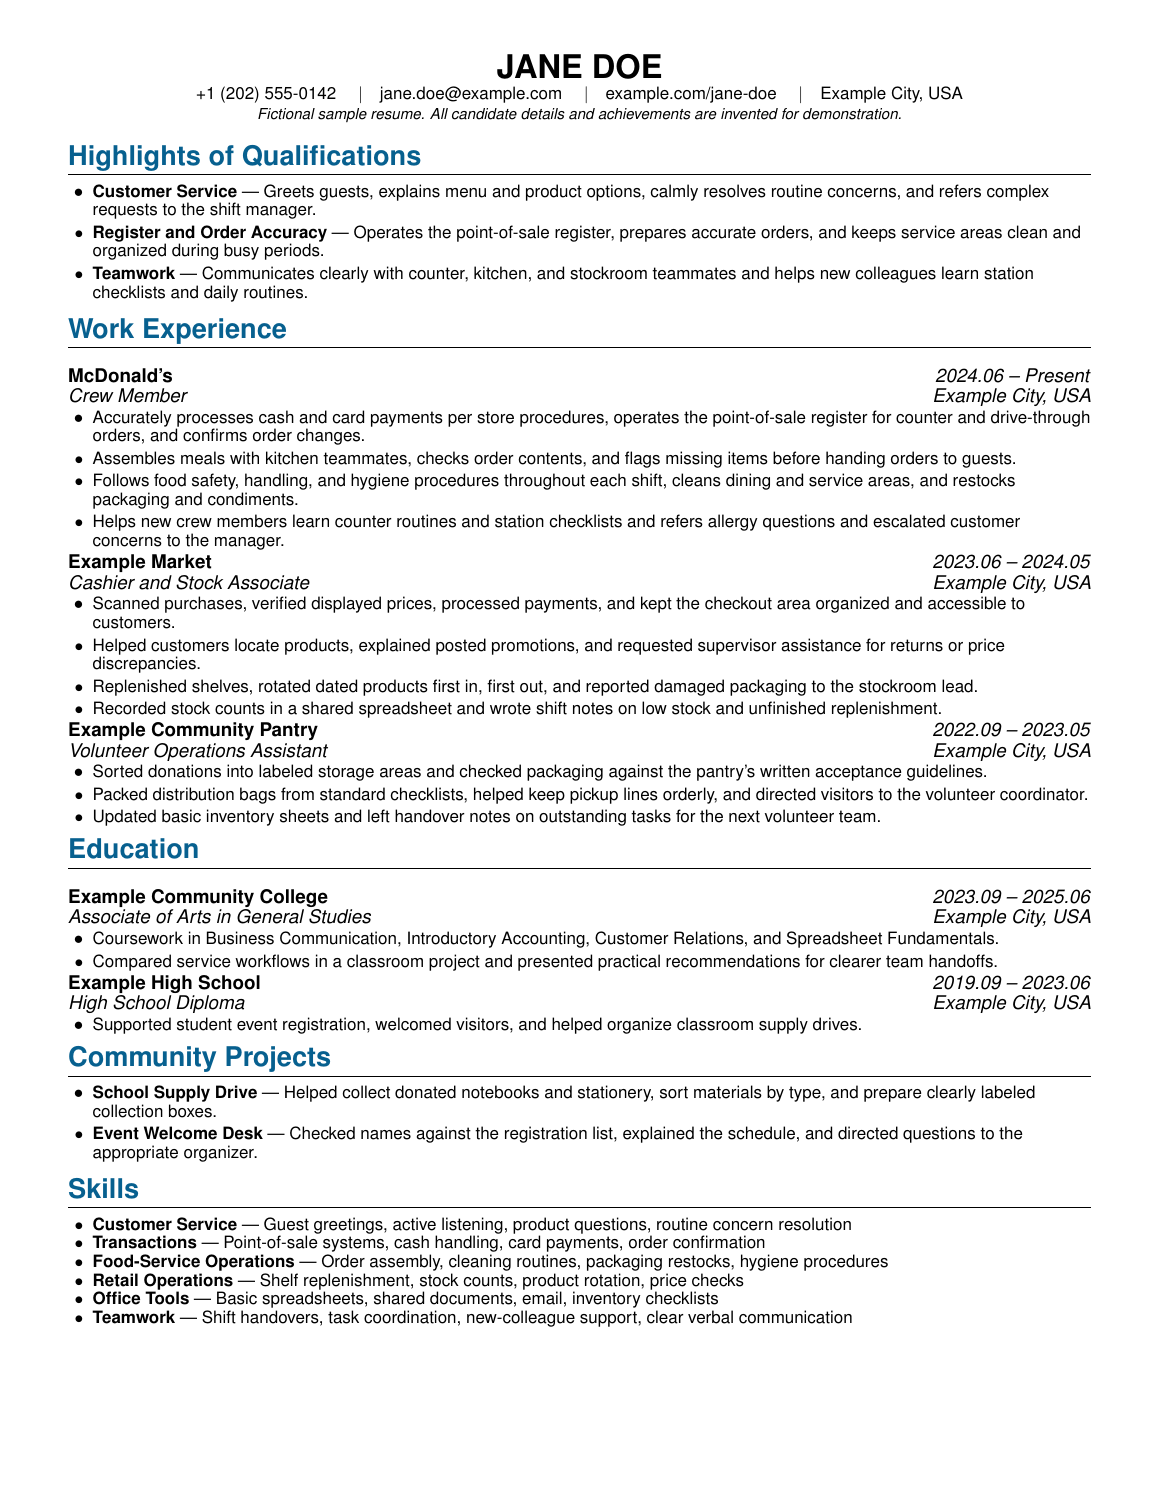
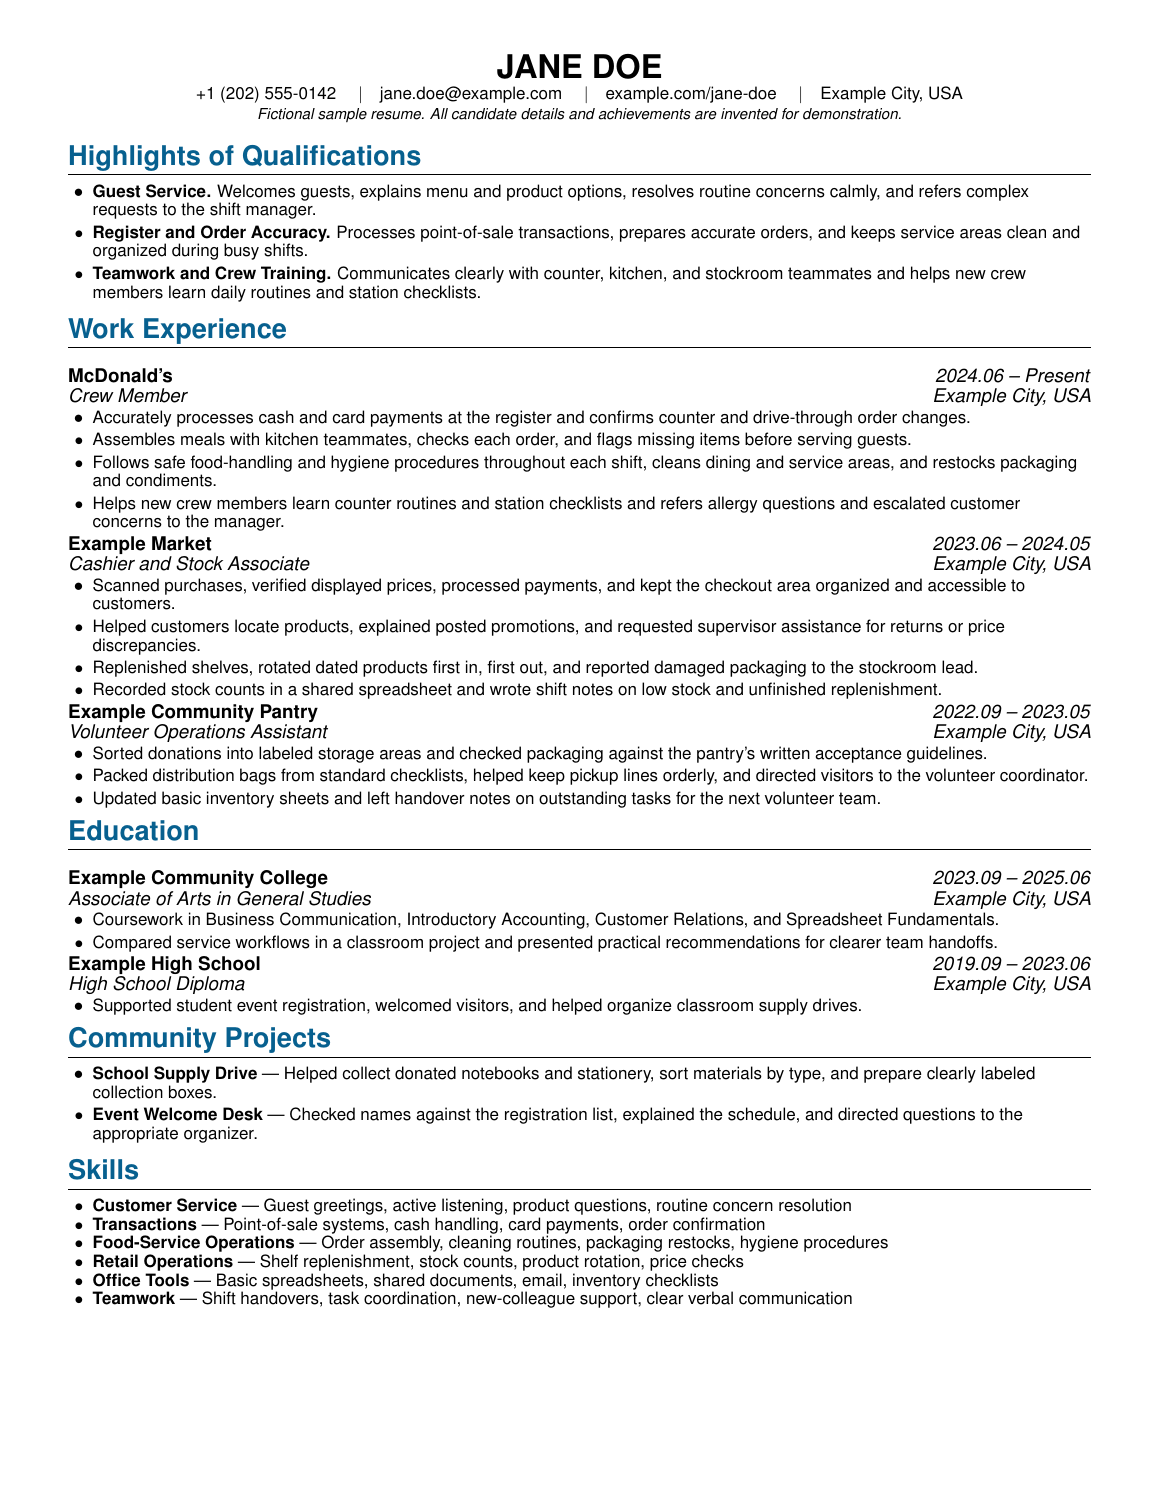
Simplify resume selection and add full workflow demo

Changed region(s): [[0.0621, 0.276, 0.9621, 0.8893], [0.0931, 0.1227, 0.931, 0.2147]]

diff --git a/extension/sidepanel/sidepanel.js b/extension/sidepanel/sidepanel.js
@@ -110,7 +110,6 @@ const els = {
 
   settingsDialog: document.getElementById('settings-dialog'),
   settingsForm: document.getElementById('settings-form'),
-  masterRadioContainer: document.getElementById('master-radio-container'),
   agentSelect: document.getElementById('agent-select'),
   modelSelect: document.getElementById('model-select'),
   modelDiscoveryHint: document.getElementById('model-discovery-hint'),
@@ -575,7 +574,7 @@ function renderFolderState() {
 
 async function loadSettings() {
   const stored = await chrome.storage.local.get(['settings', 'cachedHealthAgents']);
-  state.settings = { ...DEFAULT_SETTINGS, ...(stored.settings || {}) };
+  state.settings = { ...DEFAULT_SETTINGS, ...(stored.settings || {}), masterResume: 'auto' };
   if (!state.health && Array.isArray(stored.cachedHealthAgents) && stored.cachedHealthAgents.length > 0) {
     state.health = { agents: stored.cachedHealthAgents };
     renderAgentsAndModels(stored.cachedHealthAgents);
@@ -589,10 +588,6 @@ async function loadSettings() {
   els.apiBaseUrlInput.value = state.settings.apiBaseUrl || '';
   els.customModelInput.value = state.settings.customModel || '';
 
-  const masterRadio = els.settingsForm.querySelector(
-    `input[name="masterResume"][value="${CSS.escape(state.settings.masterResume || 'auto')}"]`,
-  );
-  if (masterRadio) masterRadio.checked = true;
   renderComposerPills();
 }
 
@@ -611,35 +606,6 @@ function setConnectionStatus(connState, shortLabel, alertText = '') {
   } else {
     els.alertStrip.hidden = true;
     els.alertStripText.textContent = '';
-  }
-}
-
-function renderMasters(masters = []) {
-  const currentSelected = state.settings.masterResume || 'auto';
-  els.masterRadioContainer.replaceChildren();
-
-  const options = [
-    { value: 'auto', label: 'Auto-detect from job description' },
-    ...masters.map((m) => ({ value: m.filename, label: m.label })),
-  ];
-
-  for (const opt of options) {
-    const row = document.createElement('div');
-    row.className = 'radio-row';
-
-    const input = document.createElement('input');
-    input.type = 'radio';
-    input.name = 'masterResume';
-    input.value = opt.value;
-    input.id = `master-opt-${opt.value.replace(/[^a-z0-9]/gi, '-')}`;
-    input.checked = opt.value === currentSelected;
-
-    const label = document.createElement('label');
-    label.htmlFor = input.id;
-    label.textContent = opt.label;
-
-    row.append(input, label);
-    els.masterRadioContainer.append(row);
   }
 }
 
@@ -869,9 +835,6 @@ async function applyHealthResponse(health) {
 
   state.health = health;
   els.settingRepoPath.textContent = health.resumeRepoDir || '~/code/resume';
-  if (Array.isArray(health.masters) && health.masters.length > 0) {
-    renderMasters(health.masters);
-  }
   if (Array.isArray(health.agents) && health.agents.length > 0) {
     renderAgentsAndModels(health.agents);
     const agyAgent = health.agents.find((a) => a.id === 'antigravity');
@@ -1679,7 +1642,7 @@ async function handleOneClickGenerate() {
       sourceUrl: state.sourceUrl,
       jobDescription: jd,
       userPrompt: '',
-      masterResume: state.settings.masterResume || 'auto',
+      masterResume: 'auto',
       agentId: state.settings.agentId || 'antigravity',
       model: getEffectiveModel(),
       effort: state.settings.effort || '',
@@ -1724,7 +1687,7 @@ async function handleChatSubmit(event) {
       pageTitle: state.pageTitle,
       sourceUrl: state.sourceUrl,
       jobDescription: els.jdTextarea.value.trim(),
-      masterResume: state.settings.masterResume || 'auto',
+      masterResume: 'auto',
       agentId: state.settings.agentId || 'antigravity',
       model: getEffectiveModel(),
       effort: state.settings.effort || '',
@@ -2153,10 +2116,6 @@ function wireEvents() {
       els.agentSelect.value = state.settings.agentId;
     }
     renderModelOptionsForAgent(els.agentSelect.value || 'antigravity', state.settings.model, state.settings.effort);
-    const radio = els.settingsForm.querySelector(
-      `input[name="masterResume"][value="${CSS.escape(state.settings.masterResume || 'auto')}"]`,
-    );
-    if (radio) radio.checked = true;
     els.settingsDialog.showModal();
 
     const selectedHealth = state.health?.agents?.find((a) => a.id === els.agentSelect.value);
@@ -2185,11 +2144,8 @@ function wireEvents() {
     els.settingsDialog.returnValue = '';
     if (val !== 'save') return;
 
-    const masterResume =
-      els.settingsForm.querySelector('input[name="masterResume"]:checked')?.value || 'auto';
     await saveSettings({
       serverUrl: normalizeServerUrl(els.settingServerUrl.value) || DEFAULT_SETTINGS.serverUrl,
-      masterResume,
       agentId: els.agentSelect.value || 'antigravity',
       model: els.modelSelect.value || '',
       customModel: els.customModelInput.value.trim(),

diff --git a/extension/sidepanel/sidepanel.html b/extension/sidepanel/sidepanel.html
@@ -189,24 +189,6 @@
         </button>
       </div>
 
-      <fieldset class="radio-group">
-        <legend>Master resume (code/resume/)</legend>
-        <div class="radio-options" id="master-radio-container">
-          <div class="radio-row">
-            <input type="radio" id="master-auto" name="masterResume" value="auto" checked>
-            <label for="master-auto">Auto-detect from job description</label>
-          </div>
-          <div class="radio-row">
-            <input type="radio" id="master-swe" name="masterResume" value="resume.tex">
-            <label for="master-swe">SWE / Infra / AI (resume.tex)</label>
-          </div>
-          <div class="radio-row">
-            <input type="radio" id="master-parttime" name="masterResume" value="resume-parttime.tex">
-            <label for="master-parttime">Part-time / Service (resume-parttime.tex)</label>
-          </div>
-        </div>
-      </fieldset>
-
       <div class="field-grid">
         <div class="field">
           <label for="agent-select">AI backend</label>

diff --git a/README.md b/README.md
@@ -14,11 +14,13 @@ A Manifest V3 Chrome extension + cross-platform local companion server (supports
 
 ## See it in action
 
-A chat edit rewrites Jane Doe's first McDonald's bullet to emphasize accurate
-cash and card payments. The GIF shows the actual compiled PDF before and after
-the edit; the resume remains one page.
+Open a job posting, generate a tailored resume, refine it in the side-panel chat,
+and save the PDF—all from the actual Chrome extension.
 
-![Before and after a chat edit to the fictional Jane Doe resume](docs/screenshots/resume-edit.gif)
+![Paint It Black side-panel workflow: open a job posting, generate, edit, and save a resume](docs/screenshots/sidepanel-workflow.gif)
+
+*Recorded with the fictional Jane Doe resume and a demo job posting. AI processing
+waits are shortened. [View the walkthrough at full size](docs/screenshots/sidepanel-workflow.gif).*
 
 <details>
 <summary>View the complete one-page PDF preview</summary>
@@ -222,7 +224,7 @@ does not send a generation prompt.
    - **Q&A** (e.g., *"What skills am I missing?"*, *"Draft a recruiter DM"*) — answered in chat without modifying your PDF.
    - **Fast Bullet Edits** (e.g., *"Make bullet 2 more concise"*, *"Emphasize Go and Kubernetes"*) — uses targeted slot updates for low latency, recompiles a verified 1-page PDF, increments the revision (`v1` → `v2`…), and live-refreshes the preview window.
    - **Full Structural Edits** (e.g., *"Remove the Publications section and add a new Work Experience entry for …"*) — automatically switches to full-LaTeX edit mode so the model can add/remove/reorder sections, roles, or projects directly.
-5. Use the top-right **Reconnect (`↻`)**, **History**, and **Settings** buttons to reconnect/re-warm local CLI clients, reopen saved drafts, pick a direct save folder, switch master resumes, or configure your AI backend, **Model**, and **Reasoning effort** independently.
+5. Use the top-right **Reconnect (`↻`)**, **History**, and **Settings** buttons to reconnect/re-warm local CLI clients, reopen saved drafts, pick a direct save folder, or configure your AI backend, **Model**, and **Reasoning effort** independently.
 
 ## Where Files Are Saved
 

diff --git a/docs/screenshots/README.md b/docs/screenshots/README.md
@@ -2,8 +2,9 @@
 
 These assets use fictional Jane Doe details only.
 
+- `sidepanel-workflow.gif`: actual Chrome captures from opening the demo job posting through automatic detection, Codex generation, a chat edit, and native Save As. AI waits are shortened; browser tabs are cropped for focus.
 - `onboarding.png`: real Chrome capture of the extension setup page in an isolated demo profile.
-- `resume-preview.png`: the full edited one-page PDF rendered from the verified lifecycle test.
-- `resume-edit.gif`: two real PDF revisions from that test, cropped around the changed bullet and labeled before/after. It illustrates the PDF result of a chat edit.
+- `resume-preview.png`: the full edited one-page PDF rendered from the workflow recording, saved through Chrome.
+- `resume-edit.gif`: two real PDF revisions from the earlier lifecycle test, cropped around the changed bullet and labeled before/after. It illustrates the PDF result of a chat edit.
 
 No candidate information, credentials, personal browser tabs, or private resume files are included. Refresh captures when the corresponding UI changes.
